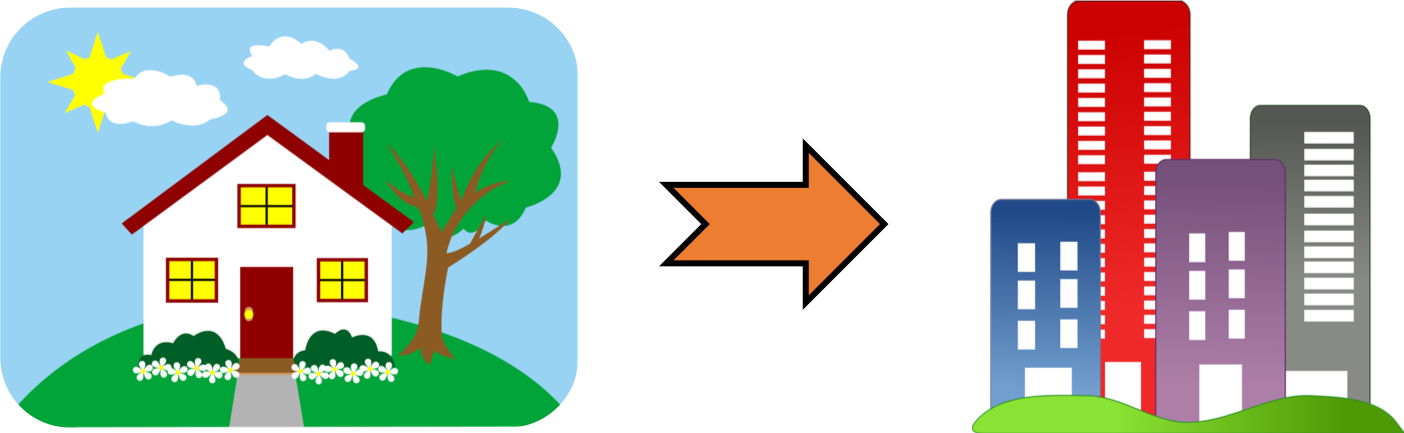
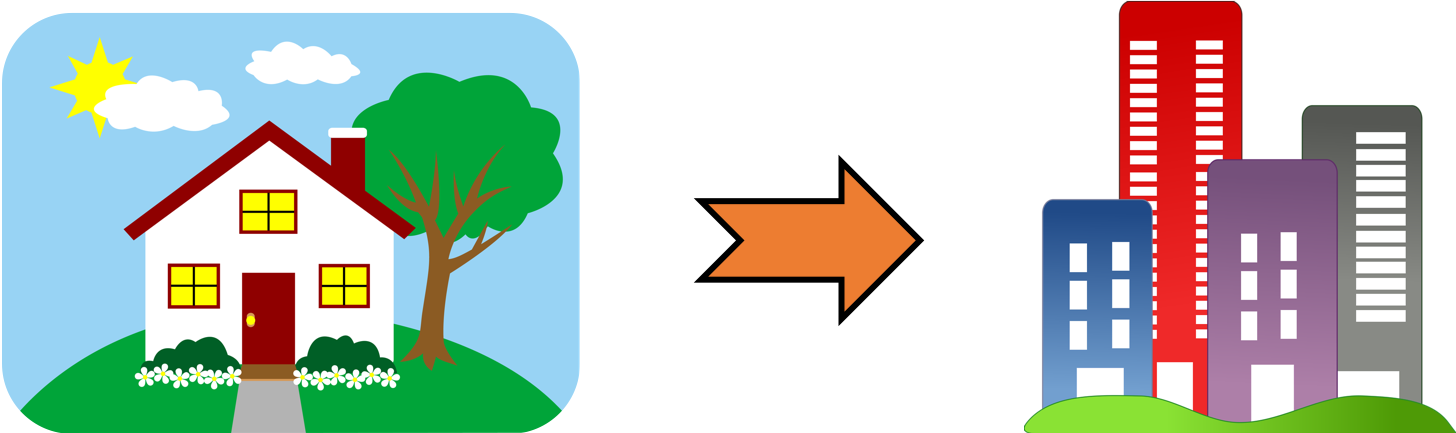
Added diagrams for choices page, moved variables from global declaration to session-based, and added option for selecting time of departure

diff --git a/templates/choices.html b/templates/choices.html
@@ -11,13 +11,13 @@
 
 </div> -->
 
-  <div class="header" style="margin-top: 1em; margin-left: 10em; margin-bottom:2em ">
-    <h2> Please select which commute you want to analyze</h2>
+  <div class="header" style="margin-top: 2em; margin-left: 10em; margin-bottom:2em ">
+    <h2> Please select which commute you want to analyze </h2>
 
-  <button href="#" type ='submit' class="btn btn-primary btn-lg primary" name='route' value='from home' role="button" aria-pressed="true">From Home<br><img src = "static/images/home_to_work.png" style="width:10%"></button>
+  <button href="#" type ='submit' class="btn btn-primary btn-lg primary" name='route' value='from home' role="button" aria-pressed="true" style='font-size: 28px; width:40%'><img src = "/static/images/home_to_work.png" style="width:40%; margin-right:8%"> Home to Work</button>
+  <button href="#" type='submit' class="btn btn-primary btn-lg primary" name = 'route' value='from work' role="button" aria-pressed="true" style='font-size: 28px; width:38%'><img src = "/static/images/work_to_home.png" style="width:40%; margin-right:8%"> Work to Home</button>
 
-  <button href="#" type='submit' class="btn btn-primary btn-lg primary" name = 'route' value='from work' role="button" aria-pressed="true">From Work</button>
-  </div>
+</div>
 </form>
 <div class="col-md-6" style="margin-left: 0em; margin-top:2em">
     {% block graph_content %}

diff --git a/main.py b/main.py
@@ -1,5 +1,5 @@
 
-from flask import Flask, render_template, request, send_from_directory
+from flask import Flask, render_template, request, send_from_directory, redirect, url_for, session
 import numpy as np
 
 from gmaps_api_call import obtain_commute_times
@@ -73,20 +73,14 @@ def optimize_commute():
 
     print(request.form)
     if request.method == 'POST' and request.form.get('home_addr')!= None:
-        # Delete any existing variables previously entered into this form
-        var_list = ['user_name', 'home_addr', 'work_addr', 'departure_from_home', 'departure_from_work', 'fh_commute_times', 'fw_commute_times', 'fh_labels',
-        'fw_labels', 'fh_statistics', 'fw_statistics']
-        for var in var_list:
-            if var in locals() or var in globals():
-                del var
-        # Create global variables based on users defined name and addresses
-        global user_name, home_addr, work_addr, departure_from_home, departure_from_work
+
+        # Take the parameters from the form and store them in variabls
+
         user_name = request.form['user_name']
         home_addr = request.form['home_addr']
         work_addr = request.form['work_addr']
         departure_from_home = request.form["departure_from_home"]
         departure_from_work = request.form['departure_from_work']
-
         # Compute the fh and fw time ranges based on the entries into the form, +- 2 hours
         fh_average = int(departure_from_home[0:2])
         fh_time_range = (fh_average-2,fh_average+2)
@@ -96,21 +90,34 @@ def optimize_commute():
 
         # Call the google API to get the route info for the person
         # Call api to get  commute times
-        global fh_commute_times, fw_commute_times
+        # global fh_commute_times, fw_commute_times
         fh_commute_times = obtain_commute_times(home_addr, work_addr, fh_time_range, time_int)
         fw_commute_times = obtain_commute_times(work_addr, home_addr, fw_time_range, time_int)
 
         # Generate the labels for both cases
-        global fh_labels, fw_labels
+        # global fh_labels, fw_labels
         fh_labels = gen_labels(fh_time_range, time_int)
         fw_labels = gen_labels(fw_time_range, time_int)
 
         # Compute statistics for both cases
-        global fh_statistics, fw_statistics
         fh_statistics = compute_statistics(fh_commute_times, fh_labels)
         fw_statistics = compute_statistics(fw_commute_times, fw_labels)
 
-        return render_template('choices.html')
+        # Add all variables to the current session for use in other pages
+        session['user_name']=user_name
+        session['home_addr'] = home_addr
+        session["work_addr"] = work_addr
+        session['departure_from_home'] = departure_from_home
+        session['departure_from_work'] = departure_from_work
+        session['fh_commute_times'] = fh_commute_times
+        session['fh_labels'] = fh_labels
+        session['fh_statistics'] = fh_statistics
+        session['fw_commute_times'] = fw_commute_times
+        session['fw_labels'] = fw_labels
+        session['fw_statistics'] = fw_statistics
+
+        # Create the arguments package of variables to pass between the pages. The order is important and shouldnt be changed, but can be added to if needed
+        return redirect(url_for(".results"))
 
     elif request.method == 'POST' and request.form.get('route') != None:
         if request.form['route']=='from home':
@@ -121,13 +128,32 @@ def optimize_commute():
     # track_event(category='Commute Tracked', action='commute tracked')
     return render_template('optimize.html')
 
+@app.route('/results/fromhome/', methods = ['POST', 'GET'])
+def fromhome():
+    if request.method =="POST" and request.form['route']=='from work':
+            return redirect(url_for(".fromwork"))
+    return render_template("commutetowork.html", user_name = session['user_name'], labels=session['fh_labels'], plot_data=session['fh_commute_times'], statistics=session['fh_statistics'])
 
-@app.route('/result', methods = ['POST', 'GET'])
-def result():
-   if request.method == 'POST':
-      result = request.form
-      return render_template("results.html",result = result)
+@app.route('/results/fromwork/', methods = ['POST', 'GET'])
+def fromwork():
+    if request.method =="POST" and request.form['route']=='from home':
+            return redirect(url_for(".fromhome"))
+    return render_template("commutefromwork.html", user_name = session['user_name'], labels=session['fw_labels'], plot_data=session['fw_commute_times'], statistics=session['fw_statistics'])
+
+@app.route('/results/', methods = ['POST', 'GET'])
+def results():
+    # Interpret the arguments from the call to results to send to the desired 
+    # args = request.args.get("args")
+    if request.method =="POST":
+        if request.form['route']=='from home':
+            return redirect(url_for(".fromhome"))
+        if request.form['route']=='from work':
+            return redirect(url_for(".fromwork"))
+    return render_template("choices.html")
+
+
 
 
 if __name__ == "__main__":
+    app.secret_key = ".-commuter app secret key.."
     app.run(debug=True, port=8080, host='0.0.0.0')
